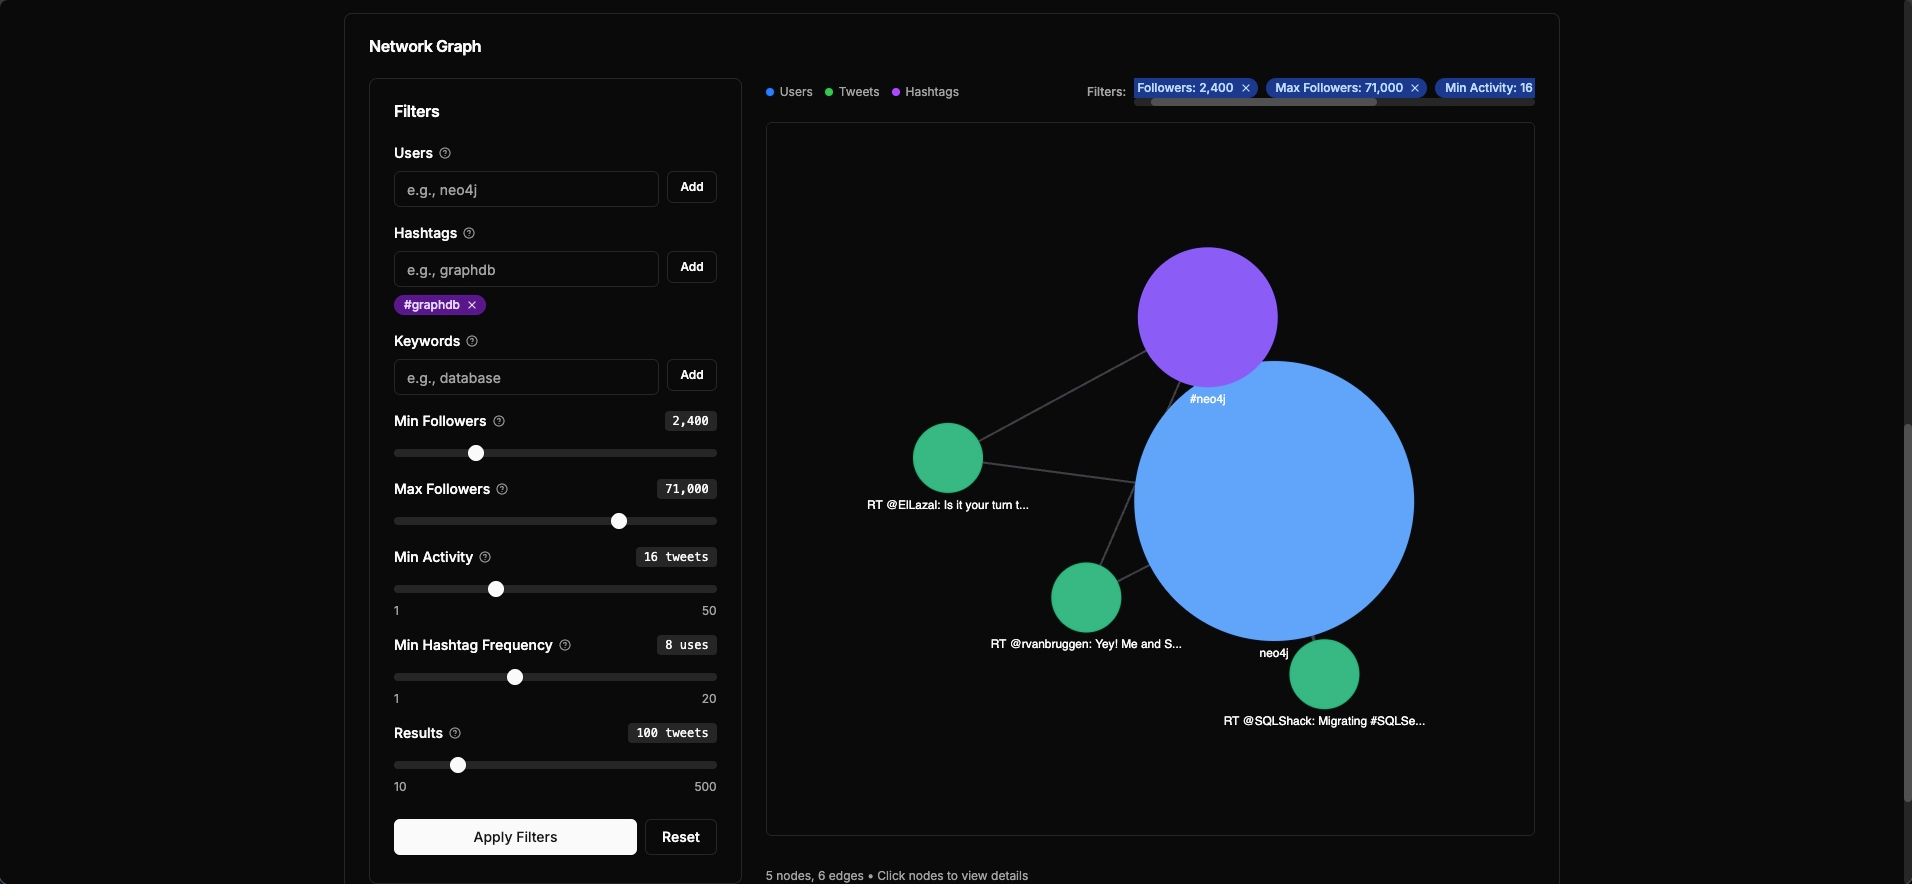
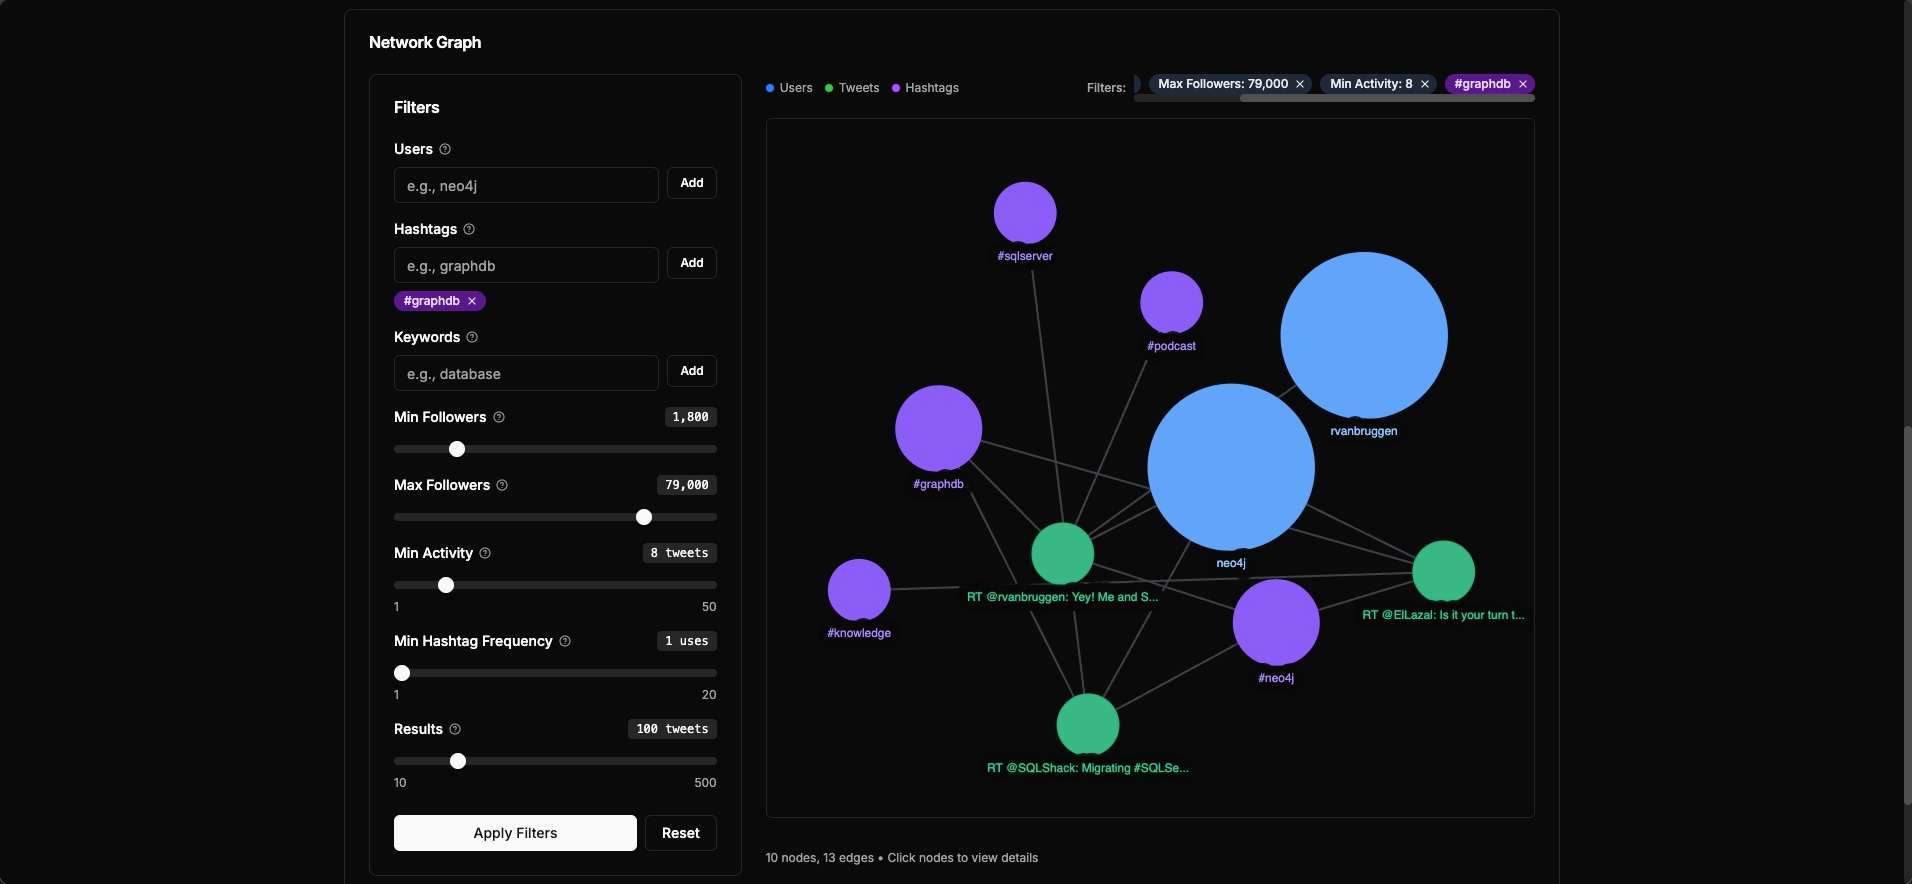
color consistency + updated screenshots

diff --git a/app/components/NetworkGraph.tsx b/app/components/NetworkGraph.tsx
@@ -106,12 +106,13 @@ export default function NetworkGraph({
       setDimensions({ width, height });
 
       // Increment resize generation if width changed significantly (more than 50px)
-      if (Math.abs(width - previousWidthRef.current) > 50) {
+      // Only do this when not loading to avoid unnecessary remounts during filter changes
+      if (!loading && Math.abs(width - previousWidthRef.current) > 50) {
         previousWidthRef.current = width;
         setResizeGeneration(prev => prev + 1);
       }
     }
-  }, []);
+  }, [loading]);
 
   useLayoutEffect(() => {
     if (!containerRef.current) return;
@@ -152,9 +153,21 @@ export default function NetworkGraph({
       !hasInitialZoomedRef.current
     ) {
       hasInitialZoomedRef.current = true;
-      fgRef.current.zoomToFit(10, 20); // Quick initial zoom with less padding
+      // Delay to ensure canvas is ready
+      setTimeout(() => {
+        if (fgRef.current) {
+          fgRef.current.zoomToFit(10, 20);
+        }
+      }, 50);
     }
   }, [graphData]);
+
+  // Re-measure dimensions when graph data changes
+  useEffect(() => {
+    if (graphData.nodes.length > 0) {
+      updateDimensions();
+    }
+  }, [graphData.nodes.length, updateDimensions]);
 
   // Handle focused node centering
   useEffect(() => {
@@ -443,6 +456,32 @@ export default function NetworkGraph({
 
   const activeFilters = getActiveFilters();
 
+  // Get color classes for filter pills based on type
+  const getFilterPillClasses = (type: string) => {
+    switch (type) {
+      case 'user':
+        return {
+          pill: 'bg-green-100 dark:bg-green-900 text-green-800 dark:text-green-200',
+          button: 'hover:bg-green-200 dark:hover:bg-green-800'
+        };
+      case 'hashtag':
+        return {
+          pill: 'bg-purple-100 dark:bg-purple-900 text-purple-800 dark:text-purple-200',
+          button: 'hover:bg-purple-200 dark:hover:bg-purple-800'
+        };
+      case 'keyword':
+        return {
+          pill: 'bg-blue-100 dark:bg-blue-900 text-blue-800 dark:text-blue-200',
+          button: 'hover:bg-blue-200 dark:hover:bg-blue-800'
+        };
+      default:
+        return {
+          pill: 'bg-gray-100 dark:bg-gray-800 text-gray-800 dark:text-gray-200',
+          button: 'hover:bg-gray-200 dark:hover:bg-gray-700'
+        };
+    }
+  };
+
   return (
     <div className="flex flex-col gap-4">
       <div className="flex items-center justify-between gap-4">
@@ -477,21 +516,24 @@ export default function NetworkGraph({
                 Filters:
               </span>
               <div className="flex gap-2 items-center overflow-x-auto scrollbar-thin scrollbar-thumb-muted scrollbar-track-transparent">
-                {activeFilters.map((filter, index) => (
-                  <span
-                    key={index}
-                    className="inline-flex items-center gap-1 rounded-full bg-blue-100 dark:bg-blue-900 pl-2.5 pr-1.5 py-0.5 text-xs font-medium text-blue-800 dark:text-blue-200 shrink-0"
-                  >
-                    {filter.label}
-                    <button
-                      onClick={() => handleRemoveFilter(filter.type, filter.value)}
-                      className="hover:bg-blue-200 dark:hover:bg-blue-800 rounded-full p-0.5 transition-colors -mr-0.5"
-                      aria-label={`Remove ${filter.label}`}
+                {activeFilters.map((filter, index) => {
+                  const colors = getFilterPillClasses(filter.type);
+                  return (
+                    <span
+                      key={index}
+                      className={`inline-flex items-center gap-1 rounded-full pl-2.5 pr-1.5 py-0.5 text-xs font-medium shrink-0 ${colors.pill}`}
                     >
-                      <X className="w-3 h-3" />
-                    </button>
-                  </span>
-                ))}
+                      {filter.label}
+                      <button
+                        onClick={() => handleRemoveFilter(filter.type, filter.value)}
+                        className={`rounded-full p-0.5 transition-colors -mr-0.5 ${colors.button}`}
+                        aria-label={`Remove ${filter.label}`}
+                      >
+                        <X className="w-3 h-3" />
+                      </button>
+                    </span>
+                  );
+                })}
               </div>
             </div>
           )}
@@ -515,6 +557,7 @@ export default function NetworkGraph({
           enableNodeDrag={true}
           enableZoomInteraction={true}
           enablePanInteraction={true}
+          enablePointerInteraction={true}
           onNodeDrag={() => {
             hasUserInteractedRef.current = true;
           }}
